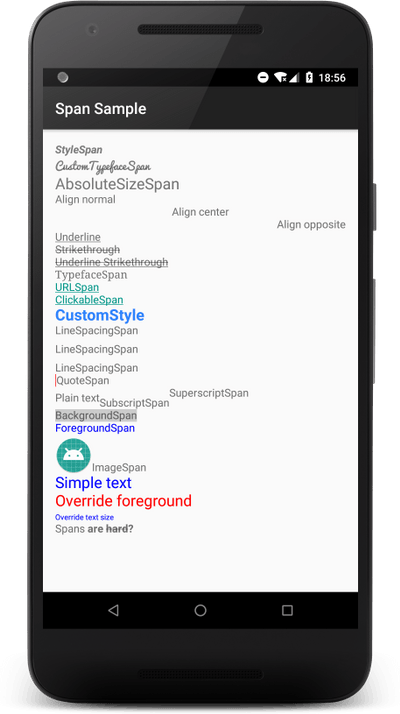
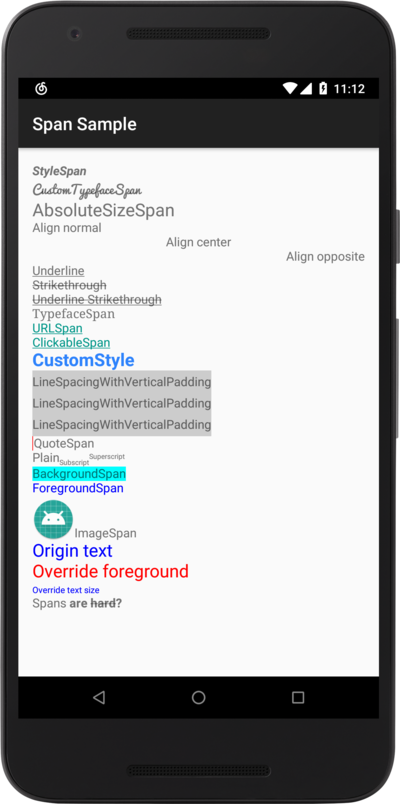
bump to v1.1 and update README

diff --git a/README.md b/README.md
@@ -58,7 +58,7 @@ val text = span {
 You can grab it via Gradle:
 
 ```
-implementation 'me.gujun.android:span:1.0'
+implementation 'me.gujun.android:span:1.1'
 ```
 
 ### Usage
@@ -71,9 +71,12 @@ val text = span {
   fontFamily = "monospace"
   typeface = getFont(R.font.pacifico)
   textStyle = "bold"
-  textAlign = "normal"
+  alignment = "normal"
   textDecorationLine = "underline"
   lineSpacing = dp(3)
+  verticalPadding = dp(5)
+  paddingTop = dp(5)
+  paddingBottom = dp(5)
   onClick = {
   }
   
@@ -157,13 +160,19 @@ Span.globalStyles.add(AbsoluteSizeSpan(dp(14)))
 
 - lineSpacing
 
+- verticalPadding
+
+- paddingTop
+
+- paddingBottom
+
 - onClick
 
 - fontFamily: include "monospace", "serif", and "sans-serif"
 
 - textStyle: include "normal", "bold", "italic", and "bold_italic"
 
-- textAlign: include "normal", "opposite", and "center"
+- alignment: include "normal", "opposite", and "center"
 
 - textDecorationLine: include "none", "underline", "line-through", and "underline line-through"
 
